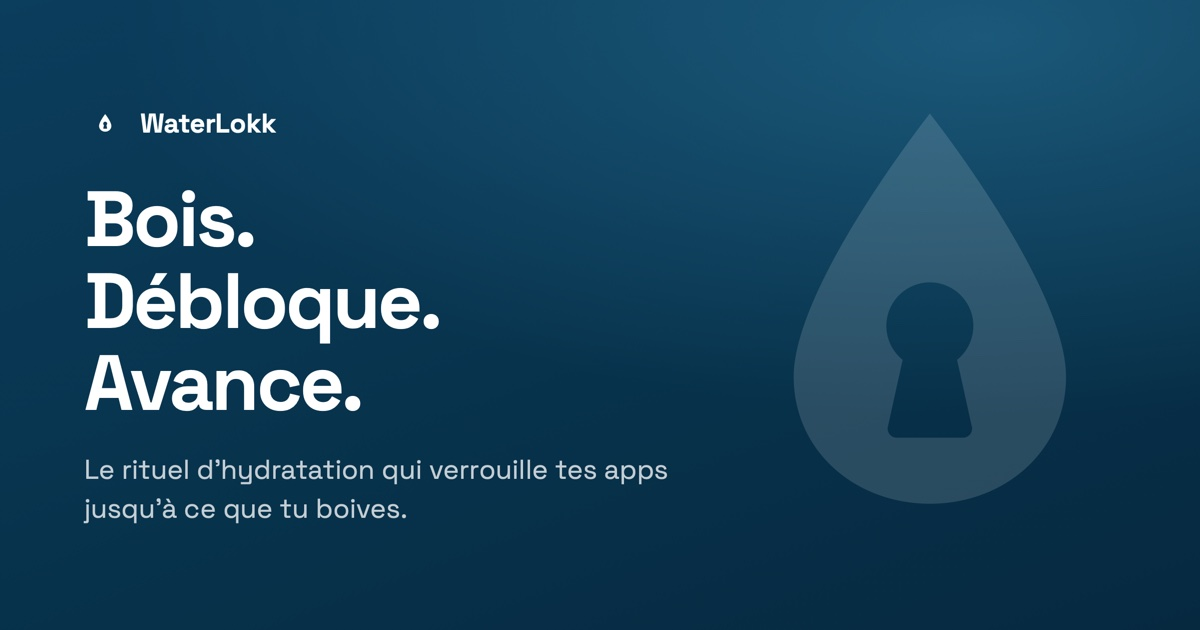
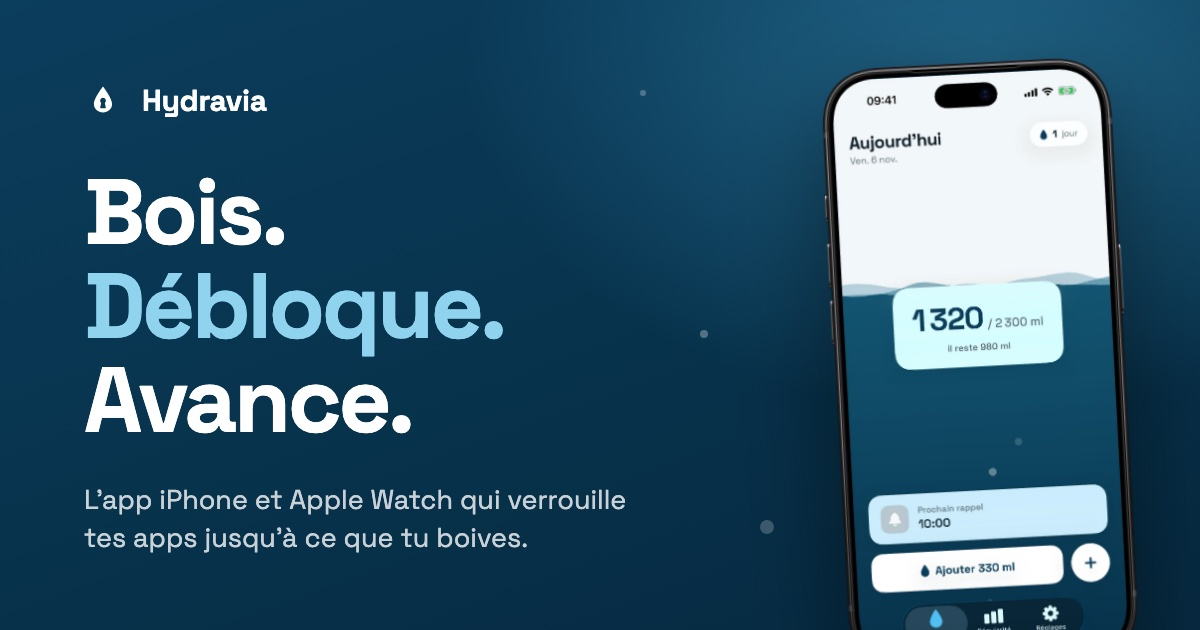
Landing page SEO, GEO and AEO, after an audit: canonical, hreflang, og:url, sitemap and robots on www.hydravia.app (the host that serves the pages; hydravia.app redirects to it); new share images in French and English with the Hydravia name (the old one still said WaterLokk); Organization, WebSite a

diff --git a/landing-page/src/i18n/index.ts b/landing-page/src/i18n/index.ts
@@ -33,7 +33,7 @@ export const fr = {
   'hero.badge': 'iPhone et Apple Watch',
   'hero.title': 'Bois.\nDébloque.\nAvance.',
   'hero.body':
-    "Un rituel d'hydratation, pas un compteur de plus. À l'heure du rappel, tes apps se verrouillent. Tu bois ton verre, tout se débloque.",
+    'Hydravia est l’app iPhone et Apple Watch qui te fait vraiment boire : à l’heure du rappel, les apps de ton choix se verrouillent. Tu bois ton verre, tout se débloque.',
   'hero.cta': 'Télécharger sur l’App Store',
   'hero.soon': 'Bientôt disponible',
   'hero.ctaNote': 'Gratuit · Pro avec 7 jours d’essai',
@@ -162,6 +162,50 @@ export const fr = {
   'faq.a7':
     'Les rappels du jour s’arrêtent et le verrou se repose jusqu’au lendemain. Si tu relèves ton objectif ou supprimes un verre, ils reprennent.',
 
+  'faq.q8': 'Combien d’eau faut-il boire par jour ?',
+  'faq.a8':
+    'L’Autorité européenne de sécurité des aliments (EFSA) recommande environ 2 litres d’eau par jour pour une femme adulte et 2,5 litres pour un homme, aliments compris : ils en apportent à peu près 20 %. Hydravia calcule ton propre objectif à partir de ton poids, environ 33 ml par kilo.',
+  'faq.src8': 'Source : EFSA, valeurs de référence pour l’eau (2010)',
+
+  'faq.q9': 'Faut-il une Apple Watch ?',
+  'faq.a9':
+    'Non. Tout fonctionne avec l’iPhone seul : rappels, verrou, suivi et widgets. L’Apple Watch est un plus pour voir ton eau du jour d’un coup d’œil et, avec Pro, verser un verre depuis ton poignet.',
+
+  'faq.q10': 'Sur quels appareils fonctionne Hydravia ?',
+  'faq.a10':
+    'Sur iPhone avec iOS 26 ou plus récent, et en option sur Apple Watch avec watchOS 26. Le verrou passe par Temps d’écran, le système d’Apple, sur l’iPhone.',
+
+  'faq.q11': 'Quelle différence avec un simple rappel ?',
+  'faq.a11':
+    'Un rappel classique se balaie d’un geste. Avec Hydravia, les apps que tu as choisies se verrouillent à l’heure du rappel et ne se rouvrent qu’après le rituel, le temps de boire ton verre. Le rappel ne peut plus passer inaperçu.',
+
+  // ── Pricing comparison ────────────────────────────────────────────────────
+  'price.cmp.summary': 'Comparer les formules en détail',
+  'price.cmp.feature': 'Fonction',
+  'price.cmp.r1': 'Suivi de l’eau et historique',
+  'price.cmp.r2': 'Rappels pendant tes heures actives',
+  'price.cmp.r3': 'Apps et sites verrouillés',
+  'price.cmp.one': '1 app',
+  'price.cmp.all': 'Sans limite',
+  'price.cmp.r4': 'Widget de progression, Apple Watch et complications',
+  'price.cmp.r5': 'Widgets d’ajout rapide et d’écran verrouillé',
+  'price.cmp.r6': 'Dose ajustée à ta soif et à la météo',
+  'price.cmp.r7': 'Verser un verre depuis l’Apple Watch',
+  'price.cmp.r8': 'Prix',
+  'price.cmp.proPrice': '2,99 € par mois, 19,99 € par an ou 39,99 € à vie',
+  'price.cmp.yes': 'Inclus',
+  'price.cmp.no': 'Non inclus',
+
+  // ── About ─────────────────────────────────────────────────────────────────
+  'about.eyebrow': 'QUI EST DERRIÈRE',
+  'about.title': 'Conçu et développé en Suisse',
+  'about.body':
+    'Hydravia est conçu et développé à Cugy, dans le canton de Fribourg, par Nicolas Meuwly, à titre indépendant. L’idée est partie d’un constat simple : un rappel se balaie, un verrou non.',
+  'about.contact': 'Une question, une idée, un bug ? Écris à',
+  'about.contactEnd': ': c’est la personne qui fait l’app qui te répond.',
+
+  'og.alt': 'Hydravia, l’app iPhone et Apple Watch qui verrouille tes apps jusqu’à ce que tu boives.',
+
   // ── Final CTA ─────────────────────────────────────────────────────────────
   'final.title': 'Commence ce soir.',
   'final.body':
@@ -196,7 +240,7 @@ export const en: Catalogue = {
   'hero.badge': 'iPhone and Apple Watch',
   'hero.title': 'Drink.\nUnlock.\nCarry on.',
   'hero.body':
-    'A hydration ritual, not another counter. When the reminder lands, your apps lock. Drink your dose and everything opens back up.',
+    'Hydravia is the iPhone and Apple Watch app that actually gets you drinking: when the reminder lands, the apps you chose lock. Drink your dose and everything opens back up.',
   'hero.cta': 'Download on the App Store',
   'hero.soon': 'Coming soon',
   'hero.ctaNote': 'Free · Pro with a 7-day trial',
@@ -317,6 +361,48 @@ export const en: Catalogue = {
   'faq.q7': 'What happens when I reach my goal?',
   'faq.a7':
     'Today’s reminders stop and the lock rests until tomorrow. If you raise your goal or delete a glass, they come back.',
+
+  'faq.q8': 'How much water should I drink a day?',
+  'faq.a8':
+    'The European Food Safety Authority (EFSA) recommends about 2 litres of water a day for adult women and 2.5 litres for men, food included: it provides roughly 20% of it. Hydravia works out your own goal from your weight, about 33 ml per kilo.',
+  'faq.src8': 'Source: EFSA, dietary reference values for water (2010)',
+
+  'faq.q9': 'Do I need an Apple Watch?',
+  'faq.a9':
+    'No. Everything works with the iPhone alone: reminders, the lock, tracking and widgets. The Apple Watch is a bonus to see today’s water at a glance and, with Pro, pour a glass from your wrist.',
+
+  'faq.q10': 'Which devices does Hydravia run on?',
+  'faq.a10':
+    'iPhone with iOS 26 or later, and optionally Apple Watch with watchOS 26. The lock uses Screen Time, Apple’s own system, on the iPhone.',
+
+  'faq.q11': 'How is it different from a plain reminder?',
+  'faq.a11':
+    'A plain reminder is gone with one swipe. With Hydravia, the apps you picked lock when the reminder lands and only open again after the ritual, the time it takes to drink your glass. The reminder can no longer slip by.',
+
+  'price.cmp.summary': 'Compare the plans in detail',
+  'price.cmp.feature': 'Feature',
+  'price.cmp.r1': 'Water tracking and history',
+  'price.cmp.r2': 'Reminders during your active hours',
+  'price.cmp.r3': 'Apps and sites locked',
+  'price.cmp.one': '1 app',
+  'price.cmp.all': 'No limit',
+  'price.cmp.r4': 'Progress widget, Apple Watch and complications',
+  'price.cmp.r5': 'Quick-add and Lock Screen widgets',
+  'price.cmp.r6': 'Dose adjusted to your thirst and the weather',
+  'price.cmp.r7': 'Pour a glass from your Apple Watch',
+  'price.cmp.r8': 'Price',
+  'price.cmp.proPrice': '€2.99 a month, €19.99 a year or €39.99 for life',
+  'price.cmp.yes': 'Included',
+  'price.cmp.no': 'Not included',
+
+  'about.eyebrow': 'WHO MAKES IT',
+  'about.title': 'Designed and built in Switzerland',
+  'about.body':
+    'Hydravia is designed and built in Cugy, in the canton of Fribourg, by Nicolas Meuwly, independently. It started from a simple observation: you can swipe a reminder away, not a lock.',
+  'about.contact': 'A question, an idea, a bug? Write to',
+  'about.contactEnd': ': the person who makes the app answers.',
+
+  'og.alt': 'Hydravia, the iPhone and Apple Watch app that locks your apps until you drink.',
 
   'final.title': 'Start tonight.',
   'final.body':

diff --git a/landing-page/src/pages/sitemap.xml.ts b/landing-page/src/pages/sitemap.xml.ts
@@ -7,27 +7,27 @@ import { LANGS, localePath } from '../i18n';
  * alternates, which is how Google learns the two language versions are the
  * same page rather than duplicates.
  */
-const PAGES = [
-  { path: '', priority: '1.0' },
-  { path: '/privacy', priority: '0.5' },
-  { path: '/terms', priority: '0.5' },
-];
+const PAGES = ['', '/privacy', '/terms'];
+
+/** Every page is rebuilt on each deploy, so the build date is when it last
+ * changed. (No `priority`: Google ignores it.) */
+const LASTMOD = new Date().toISOString().slice(0, 10);
 
 export const GET: APIRoute = ({ site }) => {
-  const base = site ?? new URL('https://hydravia.app');
+  const base = site ?? new URL('https://www.hydravia.app');
   const abs = (p: string) => new URL(p, base).href;
 
-  const urls = PAGES.flatMap((page) =>
+  const urls = PAGES.flatMap((path) =>
     LANGS.map((lang) => {
       const alternates = LANGS.map(
         (l) =>
-          `    <xhtml:link rel="alternate" hreflang="${l}" href="${abs(localePath(l, page.path))}"/>`,
+          `    <xhtml:link rel="alternate" hreflang="${l}" href="${abs(localePath(l, path))}"/>`,
       ).join('\n');
 
       return `  <url>
-    <loc>${abs(localePath(lang, page.path))}</loc>
+    <loc>${abs(localePath(lang, path))}</loc>
+    <lastmod>${LASTMOD}</lastmod>
 ${alternates}
-    <priority>${page.priority}</priority>
   </url>`;
     }),
   ).join('\n');

diff --git a/landing-page/src/config.ts b/landing-page/src/config.ts
@@ -42,6 +42,18 @@ export const HAS_CONTACT_EMAIL = !CONTACT_EMAIL.startsWith('[');
  */
 export const APP_STORE_URL = '';
 
+/**
+ * The app's numeric App Store id (the digits after "id" in APP_STORE_URL).
+ * Once set, Safari on iPhone shows its "Open in App Store" banner.
+ */
+export const APP_STORE_ID = '';
+
+/**
+ * Prices as numbers, for the structured data search engines read. They must
+ * match the copy in src/i18n and App Store Connect.
+ */
+export const PRICES = { currency: 'EUR', monthly: 2.99, yearly: 19.99, lifetime: 39.99 } as const;
+
 /** Date shown on the legal pages. Update whenever their text changes. */
 export const LEGAL_UPDATED = '2026-11-06';
 

diff --git a/landing-page/README.md b/landing-page/README.md
@@ -30,9 +30,11 @@ npm run build && grep -r "À COMPLÉTER" dist/   # must return nothing
 | `CONTACT_EMAIL` | Apple requires a working support contact; GDPR requires a reachable address for data requests |
 | `APP_STORE_URL` | Empty until first submission — see below |
 
-Also update **`site`** in [`astro.config.mjs`](astro.config.mjs) and the
-`Sitemap:` line in [`public/robots.txt`](public/robots.txt) if the domain is not
-`hydravia.app`. Those two feed canonical URLs, `hreflang` and the sitemap.
+The site is served from `www.hydravia.app` (`hydravia.app` redirects to it).
+If that host changes, update **`site`** in [`astro.config.mjs`](astro.config.mjs),
+the `Sitemap:` line in [`public/robots.txt`](public/robots.txt) and the links in
+[`public/llms.txt`](public/llms.txt). They feed canonical URLs, `hreflang` and
+the sitemap, which must name the host that actually serves the pages.
 
 ### The download buttons
 
